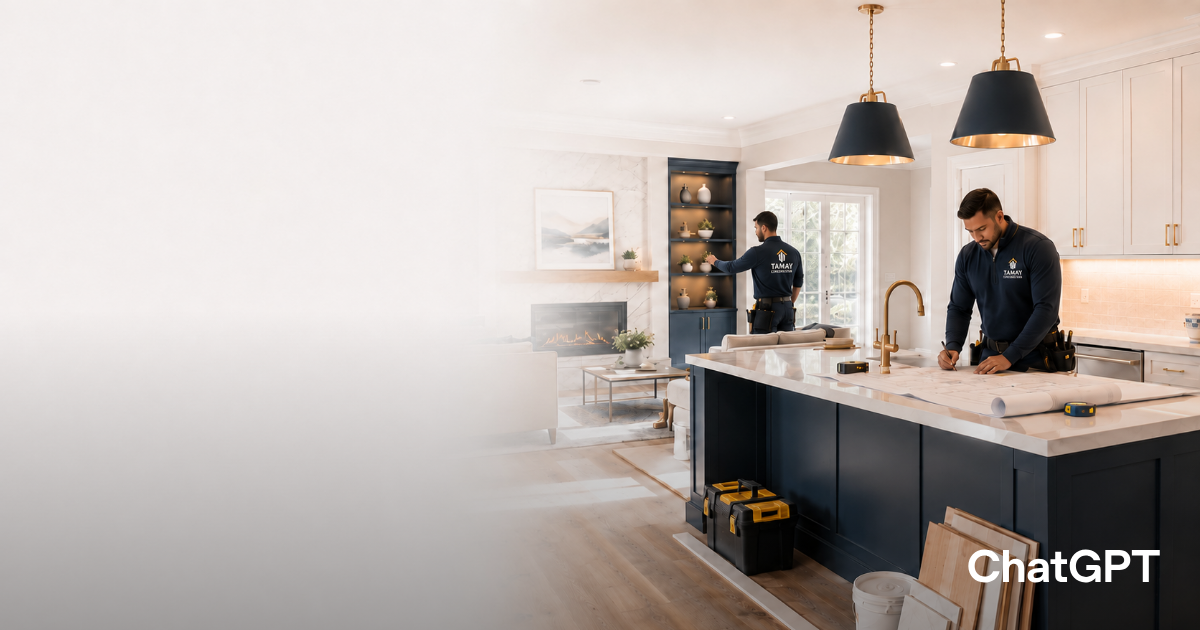
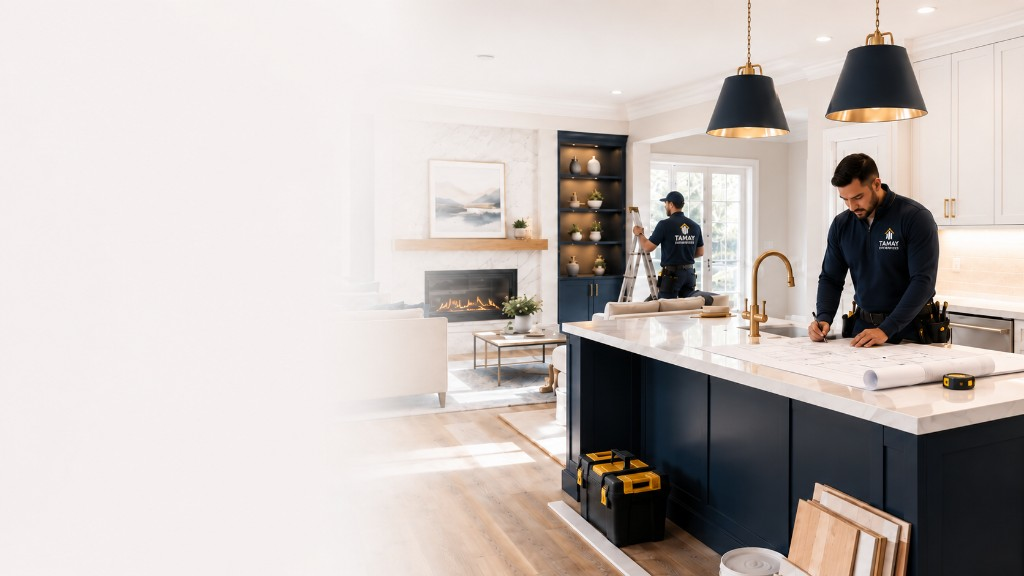
fix: replace Construction hero with clean approved image
Use the watermark-free Tamay Enterprises hero visual and match layout aspect ratio to the 16:9 asset.

diff --git a/src/components/construction/ConstructionHero.tsx b/src/components/construction/ConstructionHero.tsx
@@ -41,7 +41,7 @@ function HeroCopy() {
 export function ConstructionHero() {
   return (
     <section className="relative overflow-hidden bg-white">
-      <div className="relative flex flex-col md:aspect-[1200/630] md:max-h-[580px] md:min-h-[460px]">
+      <div className="relative flex flex-col md:aspect-[16/9] md:max-h-[580px] md:min-h-[460px]">
         <div className="relative z-10 w-full px-4 sm:px-6 py-10 md:absolute md:inset-0 md:flex md:items-center">
           <div className="w-full max-w-6xl mx-auto">
             <div className="max-w-xl">
@@ -50,7 +50,7 @@ export function ConstructionHero() {
           </div>
         </div>
 
-        <div className="relative w-full aspect-[1200/630] max-h-[min(58vw,360px)] shrink-0 md:absolute md:inset-0 md:max-h-none md:aspect-auto">
+        <div className="relative w-full aspect-[16/9] max-h-[min(58vw,360px)] shrink-0 md:absolute md:inset-0 md:max-h-none md:aspect-auto">
           <SitePhoto
             slot="construction.approvedHero"
             alt={HERO_IMAGE_ALT}
